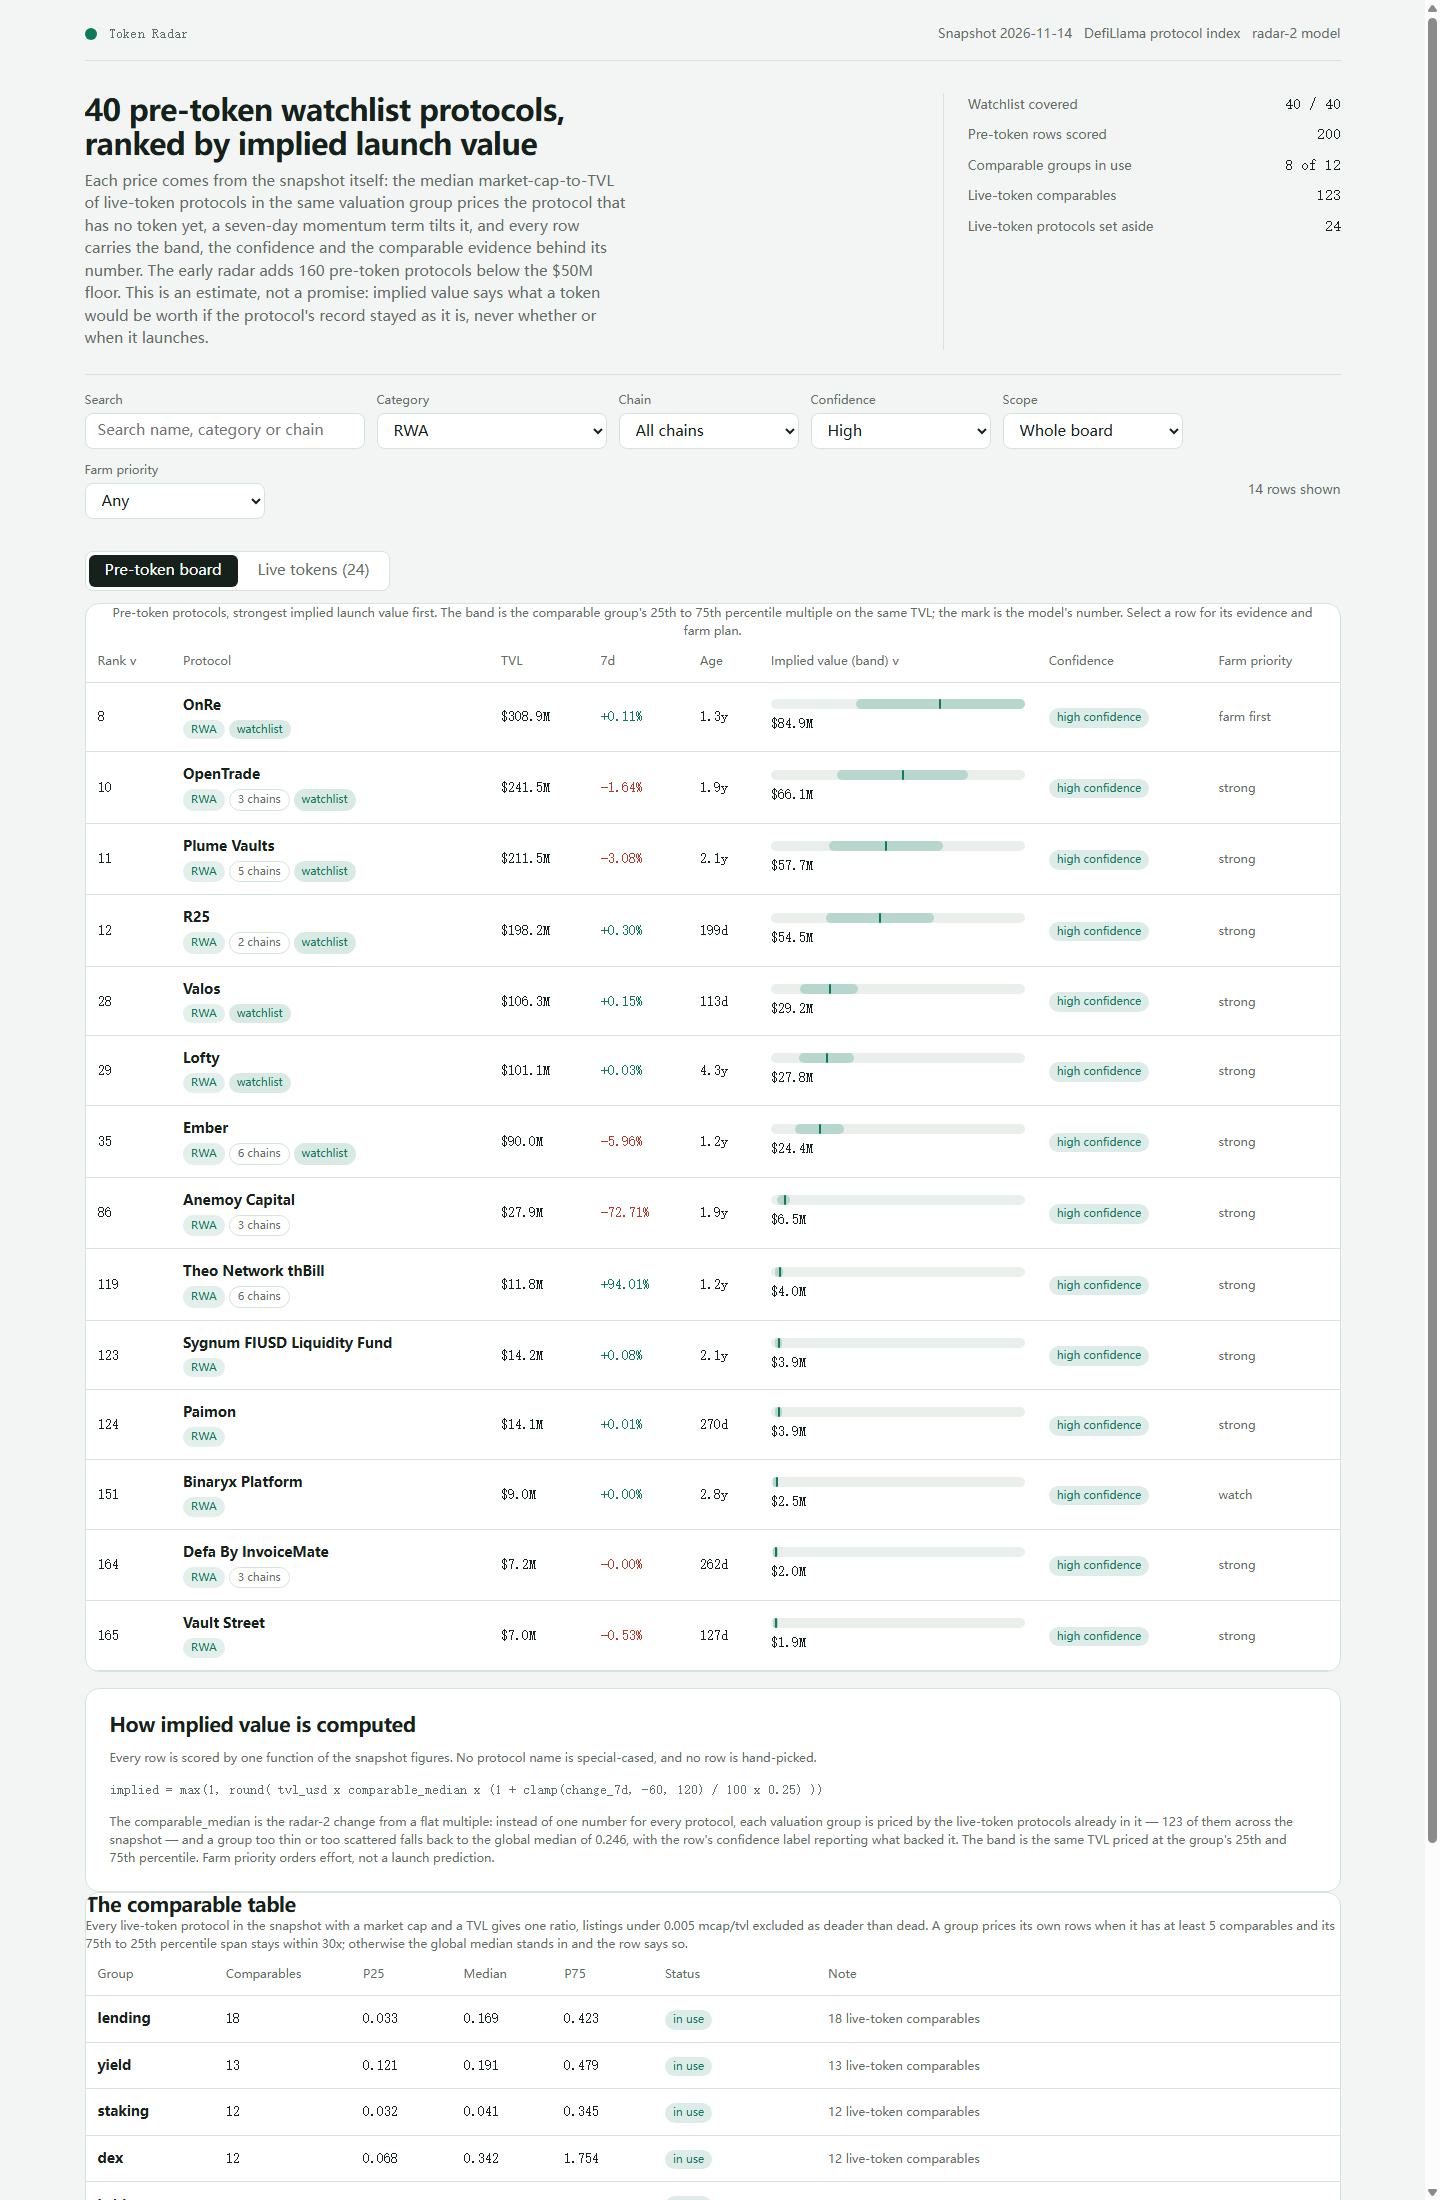
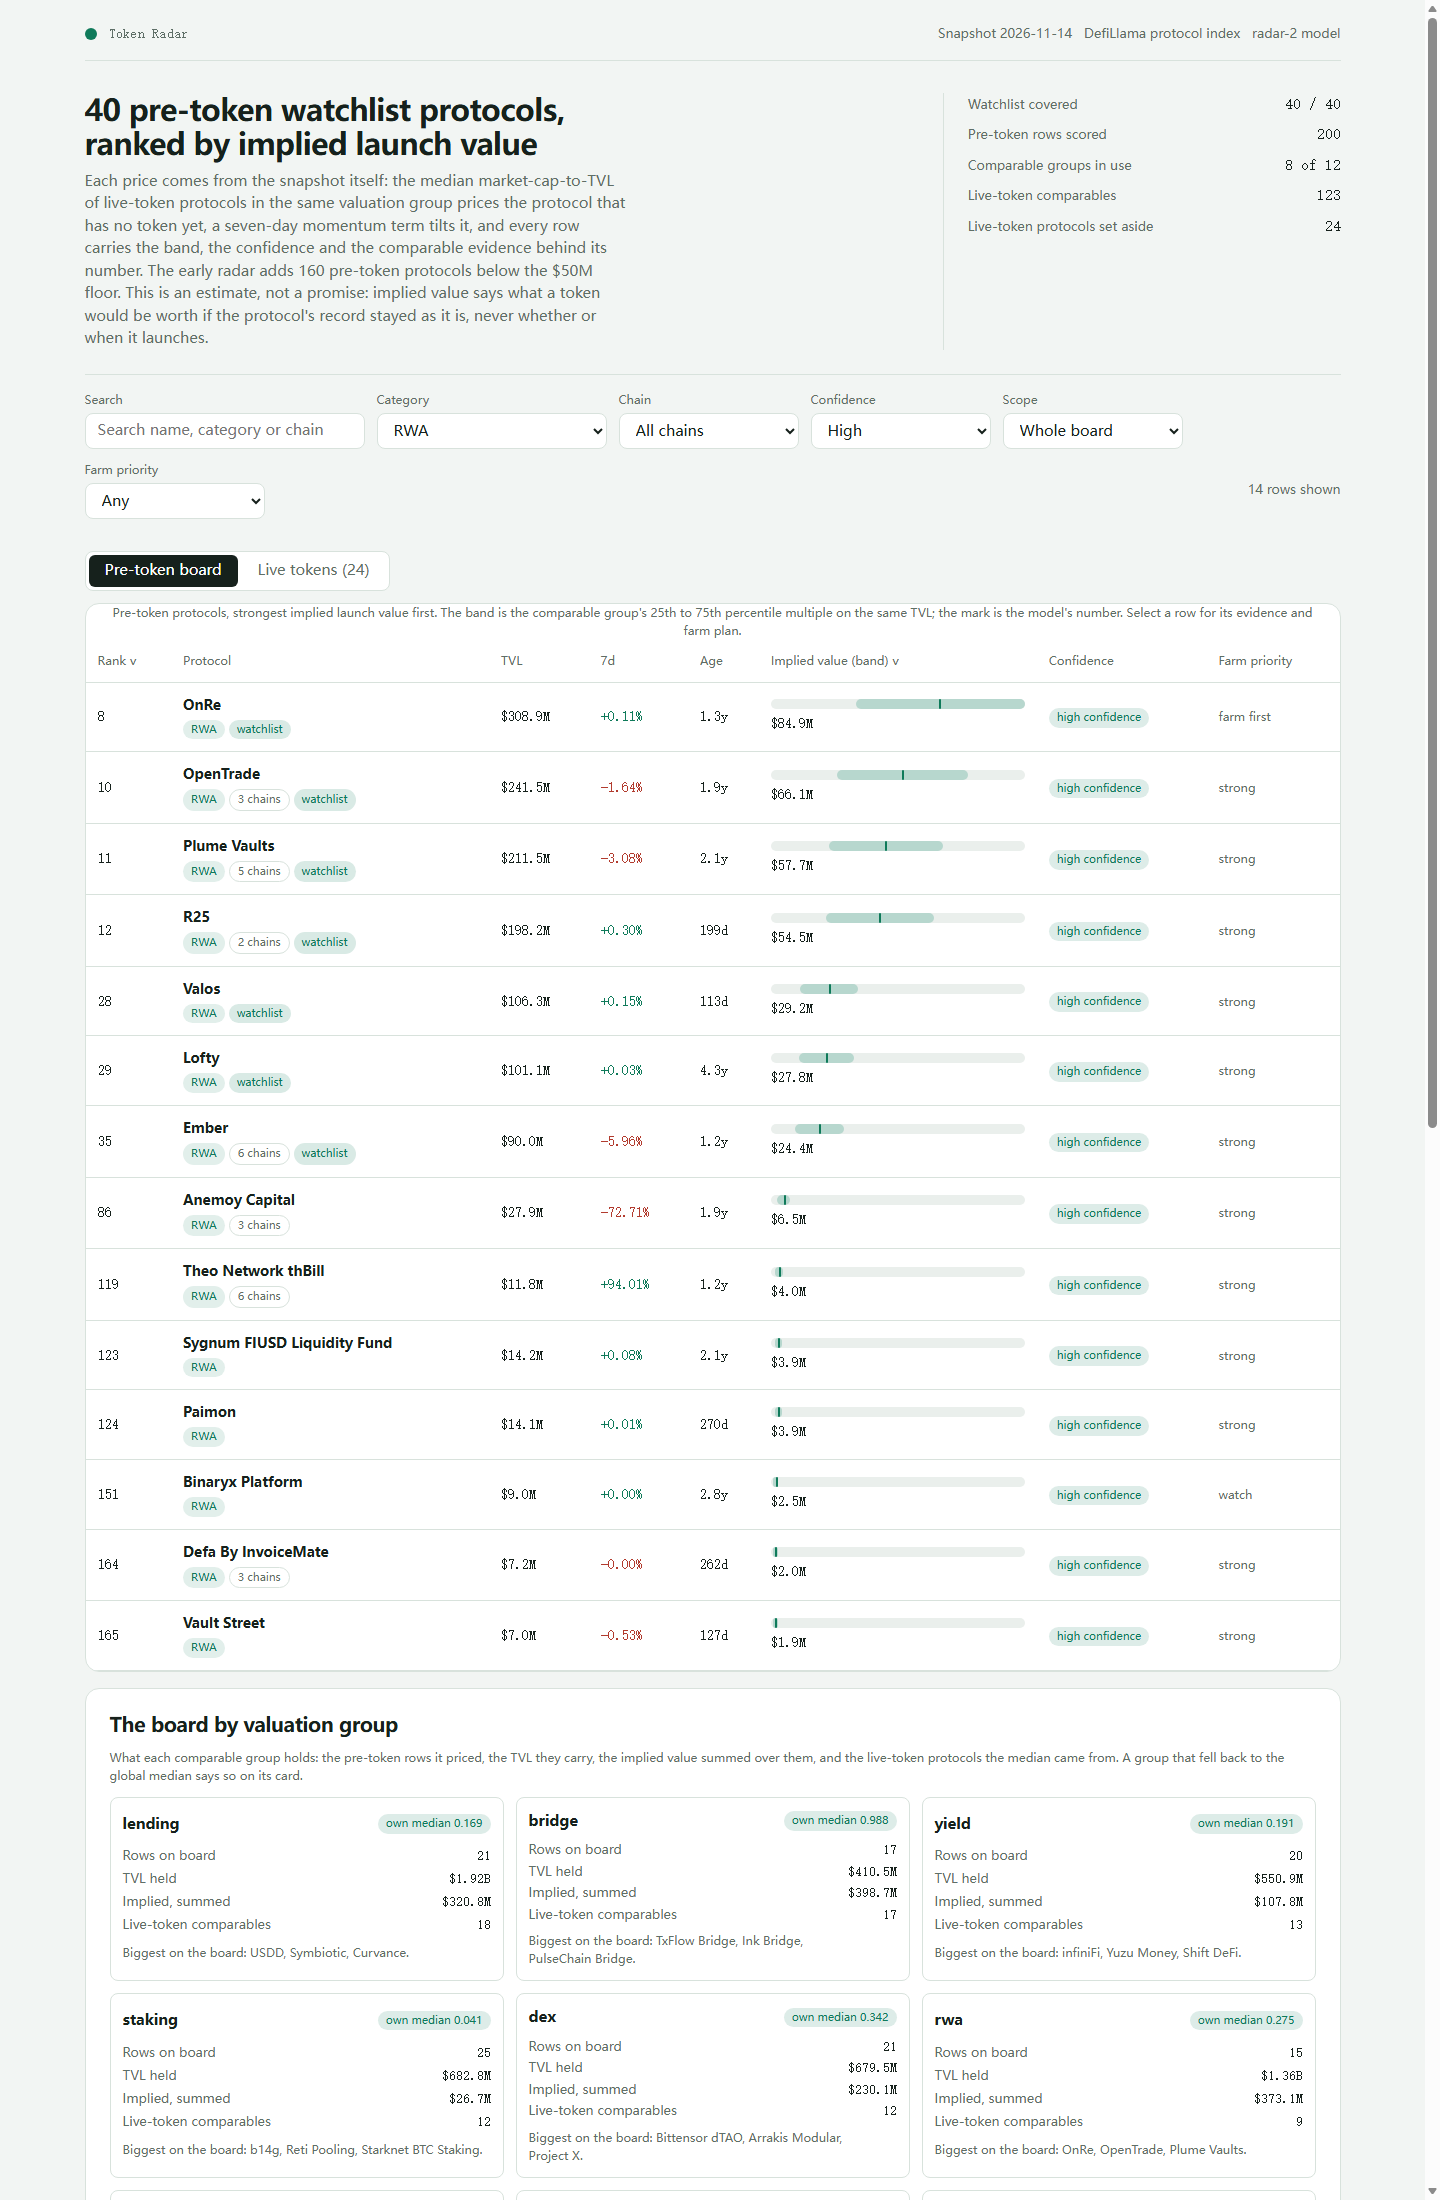
Dashboard: valuation-group overview, chain spread, and CSV export

Changed region(s): [[0.0625, 0.7727, 0.9062, 1.0], [0.9688, 0.5255, 1.0, 0.8345], [0.4688, 0.8036, 0.5, 0.8345]]

diff --git a/dashboard/app.js b/dashboard/app.js
@@ -386,6 +386,88 @@
     );
   }
 
+  // The group overview: what each valuation group holds on the board, aggregated from the rows the
+  // snapshot's own comparables priced. Every figure is summed from the rows, never hard-coded.
+  function groupsPanel() {
+    var byGroup = {};
+    DATA.rows.forEach(function (r) {
+      var g = r.comparable.group;
+      if (!byGroup[g]) byGroup[g] = { count: 0, tvl: 0, implied: 0, top: [] };
+      var b = byGroup[g];
+      b.count += 1;
+      b.tvl += r.tvl_usd;
+      b.implied += r.implied_value_usd;
+      b.top.push(r);
+    });
+    var stats = DATA.comparables.groups.slice().sort(function (a, b) { return b.n - a.n; });
+    var cards = stats.map(function (g) {
+      var b = byGroup[g.group] || { count: 0, tvl: 0, implied: 0, top: [] };
+      b.top.sort(function (x, y) { return y.tvl_usd - x.tvl_usd; });
+      var best = b.top.slice(0, 3).map(function (r) { return r.name; }).join(', ');
+      return el('div', { class: 'groupcard' },
+        el('div', { class: 'groupcard-head' },
+          el('b', { text: g.group }),
+          el('span', { class: 'badge ' + (g.used ? 'ok' : 'dim'), text: g.used ? 'own median ' + fmtMult(g.median) : 'global ' + fmtMult(DATA.comparables.global.median) })
+        ),
+        el('div', { class: 'groupcard-grid' },
+          el('span', { text: 'Rows on board' }), el('b', { class: 'num', text: String(b.count) }),
+          el('span', { text: 'TVL held' }), el('b', { class: 'num', text: fmtUsd(b.tvl) }),
+          el('span', { text: 'Implied, summed' }), el('b', { class: 'num', text: fmtUsd(b.implied) }),
+          el('span', { text: 'Live-token comparables' }), el('b', { class: 'num', text: String(g.n) })
+        ),
+        b.count > 0 ? el('p', { class: 'sub', text: 'Biggest on the board: ' + best + '.' }) : el('p', { class: 'sub', text: 'No pre-token protocol of this group made the board.' })
+      );
+    });
+    return el('section', { class: 'panel groups' },
+      el('h2', { text: 'The board by valuation group' }),
+      el('p', { class: 'sub', text: 'What each comparable group holds: the pre-token rows it priced, the TVL they carry, the implied value summed over them, and the live-token protocols the median came from. A group that fell back to the global median says so on its card.' }),
+      el('div', { class: 'groupgrid' }, cards)
+    );
+  }
+
+  // The chain spread of the board: where the pre-token capital sits, from the rows' own chain lists.
+  function chainPanel() {
+    var byChain = {};
+    DATA.rows.forEach(function (r) {
+      (r.chains || []).forEach(function (c) {
+        if (!byChain[c]) byChain[c] = { count: 0, tvl: 0 };
+        byChain[c].count += 1;
+        byChain[c].tvl += r.tvl_usd / Math.max(1, (r.chains || []).length);
+      });
+    });
+    var chains = Object.keys(byChain).map(function (c) { return { chain: c, count: byChain[c].count, tvl: byChain[c].tvl }; })
+      .sort(function (a, b) { return b.tvl - a.tvl; }).slice(0, 12);
+    var max = chains.length > 0 ? chains[0].tvl : 1;
+    var tbody = el('tbody');
+    chains.forEach(function (c) {
+      tbody.appendChild(el('tr', null,
+        el('td', null, el('b', { text: c.chain })),
+        el('td', { class: 'num', text: String(c.count) }),
+        el('td', null, el('div', { class: 'bar', 'aria-hidden': 'true' }, el('i', { style: 'width:' + Math.max(3, Math.round((c.tvl / max) * 100)) + '%' }))),
+        el('td', { class: 'num', text: fmtUsd(c.tvl) })
+      ));
+    });
+    return el('section', { class: 'panel chains' },
+      el('h2', { text: 'Where the pre-token capital sits' }),
+      el('p', { class: 'sub', text: 'The board\'s TVL spread over the chains the protocols name, a protocol shared over several chains counted once per chain in equal parts. The first twelve chains by that share are shown.' }),
+      el('div', { class: 'table-wrap' }, el('table', null,
+        el('thead', null, el('tr', null, el('th', { scope: 'col', text: 'Chain' }), el('th', { scope: 'col', text: 'Rows' }), el('th', { scope: 'col', text: 'Share of TVL' }), el('th', { scope: 'col', text: 'TVL (split share)' }))),
+        tbody
+      ))
+    );
+  }
+
+  // A CSV of the whole board, built in the page from the same data.js: no network, one download.
+  function csvUrl() {
+    var head = ['rank', 'slug', 'name', 'category', 'chains', 'tvl_usd', 'change_7d', 'age_days', 'implied_value_usd', 'band_low_usd', 'band_high_usd', 'comparable_group', 'comparable_n', 'comparable_median', 'confidence', 'farm_priority'];
+    var lines = [head.join(',')];
+    DATA.rows.forEach(function (r) {
+      var cells = [r.rank, r.slug, '"' + r.name.replace(/"/g, '""') + '"', r.category || '', '"' + (r.chains || []).join(' ') + '"', r.tvl_usd, r.change_7d === null ? '' : r.change_7d, r.age_days === null ? '' : r.age_days, r.implied_value_usd, r.band.low_value_usd, r.band.high_value_usd, r.comparable.group, r.comparable.n, r.comparable.median, r.confidence, r.farm_priority];
+      lines.push(cells.join(','));
+    });
+    return URL.createObjectURL(new Blob([lines.join('\n')], { type: 'text/csv' }));
+  }
+
   function modelPanel() {
     var m = DATA.model;
     return el('section', { class: 'panel model' },
@@ -394,7 +476,16 @@
       el('div', { class: 'formula' },
         'implied = max(1, round( tvl_usd x comparable_median x (1 + clamp(change_7d, ' + m.momentum_floor + ', ' + m.momentum_cap + ') / 100 x ' + m.momentum_weight + ') ))'
       ),
-      el('p', { class: 'sub', text: 'The comparable_median is the ' + DATA.model_version + ' change from a flat multiple: instead of one number for every protocol, each valuation group is priced by the live-token protocols already in it — ' + DATA.comparables.global.n + ' of them across the snapshot — and a group too thin or too scattered falls back to the global median of ' + fmtMult(DATA.comparables.global.median) + ', with the row\'s confidence label reporting what backed it. The band is the same TVL priced at the group\'s 25th and 75th percentile. Farm priority orders effort, not a launch prediction.' })
+      el('p', { class: 'sub', text: 'The comparable_median is the ' + DATA.model_version + ' change from a flat multiple: instead of one number for every protocol, each valuation group is priced by the live-token protocols already in it — ' + DATA.comparables.global.n + ' of them across the snapshot — and a group too thin or too scattered falls back to the global median of ' + fmtMult(DATA.comparables.global.median) + ', with the row\'s confidence label reporting what backed it. The band is the same TVL priced at the group\'s 25th and 75th percentile. Farm priority orders effort, not a launch prediction.' }),
+      el('div', { class: 'exportrow' },
+        el('button', { class: 'button', type: 'button', text: 'Download the board as CSV', onclick: function () {
+          var a = el('a', { href: csvUrl(), download: 'token-radar-board.csv' });
+          document.body.appendChild(a);
+          a.click();
+          a.remove();
+        } }),
+        el('span', { class: 'sub', text: DATA.board_size + ' rows, the band, the comparable and the priority included.' })
+      )
     );
   }
 
@@ -477,7 +568,12 @@
       el('button', { type: 'button', 'aria-pressed': state.tab === 'live' ? 'true' : 'false', text: 'Live tokens (' + DATA.live_size + ')', onclick: function () { state.tab = 'live'; render(); } })
     ));
     shell.appendChild(state.tab === 'pre-token' ? boardTable() : liveTable());
-    if (state.tab === 'pre-token') { shell.appendChild(modelPanel()); shell.appendChild(groupTable()); }
+    if (state.tab === 'pre-token') {
+      shell.appendChild(groupsPanel());
+      shell.appendChild(modelPanel());
+      shell.appendChild(groupTable());
+      shell.appendChild(chainPanel());
+    }
     app.appendChild(shell);
     app.setAttribute('aria-busy', 'false');
     if (!dialog.isConnected) app.appendChild(dialog);

diff --git a/dashboard/app.css b/dashboard/app.css
@@ -159,3 +159,13 @@ tbody tr[data-selected="true"] { background: color-mix(in srgb, var(--accent) 8%
 .band i { position: absolute; top: 0; height: 100%; }
 .band .band-range { border-radius: 5px; background: color-mix(in srgb, var(--accent) 30%, var(--surface)); }
 .band .band-mark { width: 2px; border-radius: 1px; background: var(--accent); }
+
+/* The group overview, the chain spread, and the CSV export row. */
+.groups, .chains { margin-top: var(--step-4); padding: var(--step-5); display: grid; gap: var(--step-3); }
+.groupgrid { display: grid; grid-template-columns: repeat(auto-fill, minmax(300px, 1fr)); gap: var(--step-3); }
+.groupcard { border: 1px solid var(--border); border-radius: var(--radius-control); padding: var(--step-3); display: grid; gap: var(--step-2); background: var(--surface); }
+.groupcard-head { display: flex; align-items: center; justify-content: space-between; gap: var(--step-2); }
+.groupcard-grid { display: grid; grid-template-columns: 1fr auto; gap: 2px var(--step-3); font-size: 13px; }
+.groupcard-grid span { color: var(--muted); }
+.groupcard-grid b { font-family: var(--font-num); font-weight: 500; text-align: right; }
+.exportrow { display: flex; align-items: center; gap: var(--step-3); flex-wrap: wrap; }
